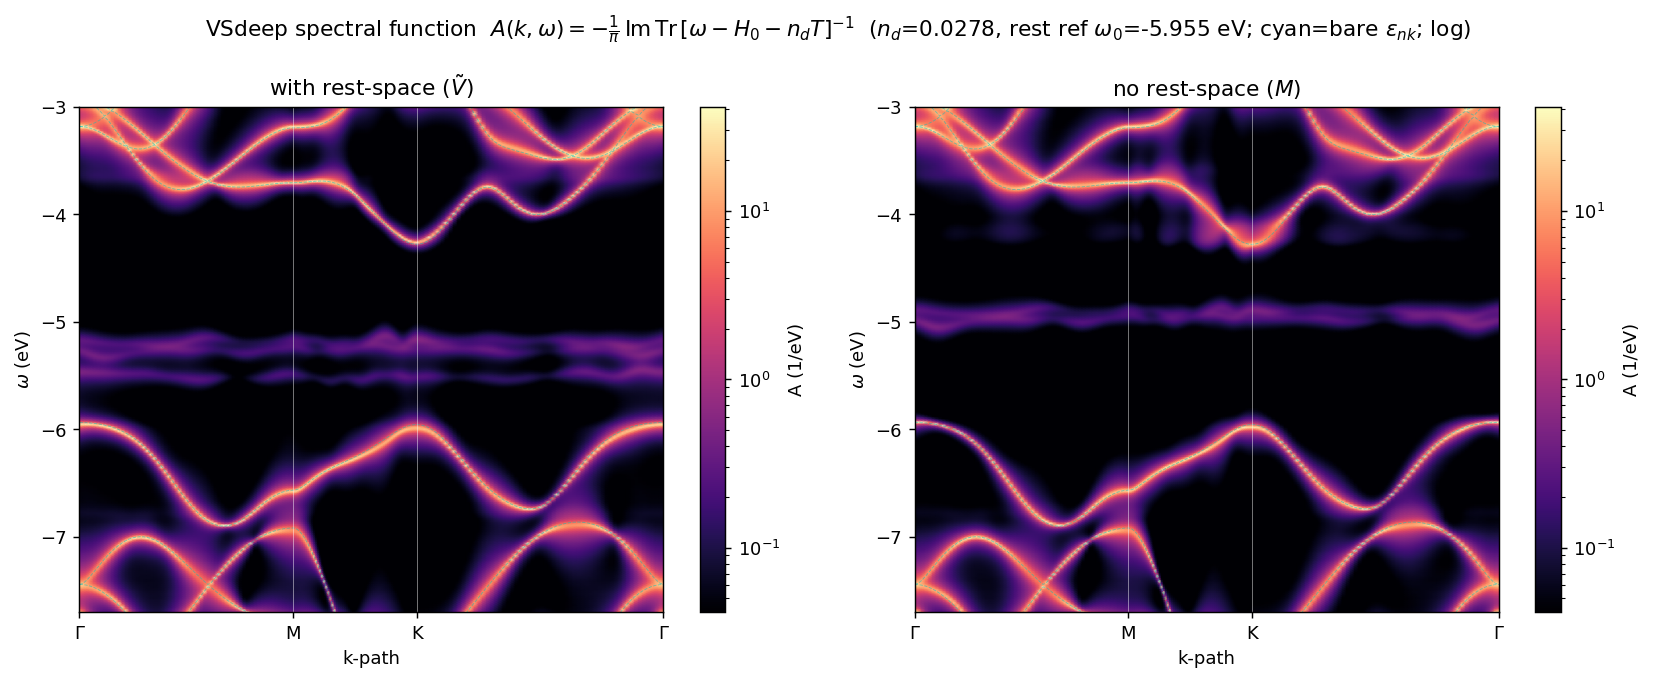
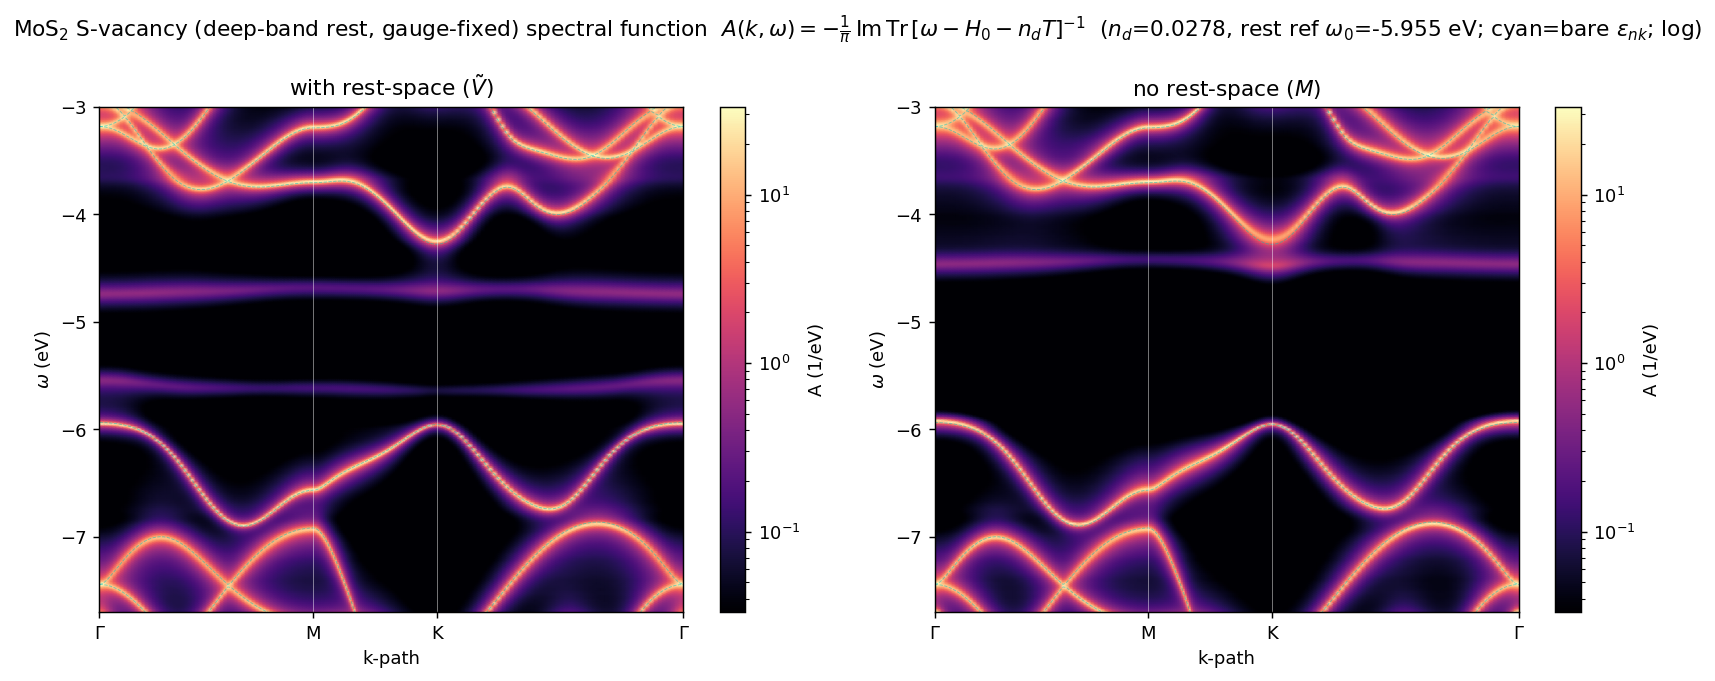
tmatrix §4.1: gauge-fix the deep-band rest (phase-sync Σ_deep into filukk gauge) → smooth spectral lines
The deep bands 1-6 live only in the bra-fixed edmat, whose per-(k,band) gauge
does not match filukk_90; the bf-built Ṽ_deep was white in k (on-site 9%), so the
RCUT=4 interpolation gave jagged in-gap lines. Recover the diagonal phase gauge D
from M_good=D†M_bf D (phase-sync, verified 1.5%), rotate Σ_deep into the filukk
gauge → on-site 9%→98%, a1/e unchanged (+0.33/+1.21). Replace the spectral figure
with the smooth gauge-fixed map; retract the jagged one (correction iii).

diff --git a/docs/pages/tmatrix.html b/docs/pages/tmatrix.html
@@ -44,12 +44,12 @@ A(\mathbf k,\omega)=-\frac{1}{\pi}\,\mathrm{Im}\,\mathrm{Tr}\,\big[\omega-H_0(\m
 <p>Diagonalizing the (bra-fixed) matrix element over band ranges makes it unambiguous:</p>
 <div class="table-wrap"><table><thead><tr><th>bands</th><th>deep 1–6</th><th>$a_1$</th><th>$e$</th></tr></thead><tbody><tr><td>1–66 (full)</td><td>in</td><td>$+0.238$</td><td>$+1.196$</td></tr><tr><td>7–66</td><td><strong>out</strong></td><td><strong>gone (below VBM)</strong></td><td>$+1.194$</td></tr><tr><td>7–17 (active only)</td><td>out</td><td>$+0.005$</td><td>$+1.484$</td></tr></tbody></table></div>
 <p>The active Wannier window is bands 7–17; the original downfolding took the rest as $Q=18$–70, <strong>excluding 1–6</strong>. Putting them back, $Q=\{1\text{–}6\}\cup\{18\text{–}66\}$, the downfolded static self-energy recovers $a_1=+0.238$ (self-consistent) — exactly the full diagonalization and DFT $\approx+0.24$ — while $e$ is unchanged at $+1.21$. (Feshbach downfolding is exact when $P\cup Q$ spans the full band set, so a <em>complete</em> rest must reproduce the full diagonalization; the deep bands push the occupied $a_1$ up into the gap, the high bands alone push it down — both are needed.)</p>
-<p>So $a_1$ is a genuine gap state ($+0.24$ eV self-consistent; $+0.33$ in the static downfold), and with the <strong>complete</strong> rest it appears in $A(\mathbf k,\omega)$ as a flat in-gap line like $e$:</p>
-<p><img src="../assets/tmat_spectral_deep.png" alt="V_S spectral function with the corrected rest (deep bands in Q)" style="max-width:100%;height:auto;display:block;margin:1.2rem auto;border:1px solid #d0d7de;border-radius:6px"> <em>$A(\mathbf k,\omega)$ recomputed with the corrected block (rest $Q=\{1\text{–}6\}\cup\{18\text{–}66\}$), with vs without rest-space. The host valence/conduction bands are properly resolved; in the gap the <strong>$e$ doublet</strong> sits at $+1.21$ eV and the <strong>$a_1$</strong> now appears as a flat line at $+0.33$ eV (static; self-consistent / DFT $+0.24$ — the $\sim0.1$ eV is the static-$\Sigma$ overshoot for a level $0.24$ eV from $\omega_0$). Both defect states are present, as in DFT — the deep-band fix recovers the missing $a_1$.</em></p>
+<p>So $a_1$ is a genuine gap state ($+0.24$ eV self-consistent; $+0.33$ in the static downfold). One <strong>gauge subtlety</strong> had to be cleared before it shows <em>cleanly</em> in $A(\mathbf k,\omega)$. The deep bands 1–6 exist only in the <strong>bra-fixed</strong> matrix element, whose per-$(\mathbf k,\text{band})$ phase gauge does <em>not</em> match the gauge-locked <code>filukk</code> (§6). Eigenvalues are gauge-invariant — so $a_1=+0.33$ from the diagonalization is correct — but the <strong>Wannier interpolation is gauge-sensitive</strong>: built directly from the bra-fixed block, $\tilde V_{\rm deep}^W$ fails to localize (on-site weight only $\sim$9 %, vs 99 % for the gauge-matched block), so the $R_{\rm cut}{=}4$ defect block is corrupt and the in-gap lines come out <strong>jagged</strong>. The fix needs no recompute — both active $M_{PP}$ blocks are on hand (gauge-matched from <code>block.py</code>, and bra-fixed), so the diagonal phase gauge $D$ ($M^{\rm good}=D^\dagger M^{\rm bf} D$) is recovered by phase-synchronisation (leading eigenvector of $M^{\rm good}\!\odot\!\overline{M^{\rm bf}}$; verified $\lVert D^\dagger M^{\rm bf} D - M^{\rm good}\rVert/\lVert M^{\rm good}\rVert = 1.5\%$) and applied to the rest self-energy, $\Sigma^{\rm good}_{\rm deep}=D^\dagger\Sigma^{\rm bf}_{\rm deep} D$. This restores locality (on-site $9\%\!\to\!98\%$) with $a_1/e$ unchanged. With the re-gauged, <strong>complete</strong> rest, $a_1$ appears in $A(\mathbf k,\omega)$ as a flat in-gap line like $e$:</p>
+<p><img src="../assets/tmat_spectral_deep.png" alt="V_S spectral function, gauge-fixed deep-band rest" style="max-width:100%;height:auto;display:block;margin:1.2rem auto;border:1px solid #d0d7de;border-radius:6px"> <em>$A(\mathbf k,\omega)$ with the <strong>gauge-fixed</strong> deep-band rest ($Q=\{1\text{–}6\}\cup\{18\text{–}66\}$, $\Sigma_{\rm deep}$ rotated into the <code>filukk</code> gauge), with vs without rest-space. Host bands are smooth dispersive ridges (adjacent-$\mathbf k$ $|\Delta\log_{10}A|\approx0.05$, vs the jagged pre-gauge-fix map); in the gap the <strong>$e$ doublet</strong> is a clear flat line at $+1.21$ eV (median $A\sim0.3$/eV) and the <strong>$a_1$</strong> a fainter flat line at $+0.33$ eV (median $A\sim0.15$/eV, $\sim$15× the gap-mid background) — fainter because it sits only $0.33$ eV above the VBM and is more hybridised than the deep $e$ resonance. Static $+0.33$; self-consistent / DFT $+0.24$. Both defect states are present, as in DFT.</em></p>
 <p>For contrast, the two figures below were computed with the <strong>truncated</strong> rest ($Q=18$–70, no deep bands) — the <em>symptom</em> of the bug, with $a_1$ pinned onto the valence-band edge ($+0.001$) and therefore invisible; they are <strong>not</strong> the corrected result.</p>
 <p><img src="../assets/tmat_dA_vs.png" alt="V_S defect-induced ΔA(k,ω) with the truncated rest: a1 not split off" style="max-width:100%;height:auto;display:block;margin:1.2rem auto;border:1px solid #d0d7de;border-radius:6px"> <em>(Truncated rest, no deep bands.) Defect-induced $\Delta A$: with $a_1$ mis-placed onto the band edge, the added weight (red) traces the dispersive valence band rather than forming a flat $a_1$ line. With the deep bands restored, $a_1$ moves to $+0.24$ (a clean gap level) and this pathology disappears.</em></p>
 <p><img src="../assets/tmat_dos_compare.png" alt="diagonalization DOS vs truncated-rest T-matrix DOS" style="max-width:100%;height:auto;display:block;margin:1.2rem auto;border:1px solid #d0d7de;border-radius:6px"> <em>(Truncated rest.) With the deep bands omitted, $a_1$ sits on the valence edge and gives no DOS peak (continuum $\Delta\rho\approx0.01$ near the VBM), while $e$ ($+1.21$) gives a clean peak. With $Q\ni1$–6 the $a_1$ returns as a $+0.24$-eV gap feature.</em></p>
-<p><strong>Corrections to earlier versions of this note.</strong> Two intermediate claims here were wrong and are retracted: (i) a large "$a_1$ DOS peak" from an earlier $\mathbf k$-path-sum (a valence van-Hove artifact), and (ii) the attribution of the missing $a_1$ to a "band-edge under-binding that needs DFT self-consistency." The true cause is the deep-band (1–6) truncation of the rest, and it is fixed <strong>inside</strong> the $T$-matrix by including those bands in $Q$ — no DFT self-consistency required. ($e$, the deep empty state, was always correct.)</p>
+<p><strong>Corrections to earlier versions of this note.</strong> Three intermediate claims/figures here were wrong and are retracted: (i) a large "$a_1$ DOS peak" from an earlier $\mathbf k$-path-sum (a valence van-Hove artifact); (ii) the attribution of the missing $a_1$ to a "band-edge under-binding that needs DFT self-consistency" — the true cause is the deep-band (1–6) truncation of the rest, fixed <strong>inside</strong> the $T$-matrix by including those bands in $Q$, no DFT self-consistency required; and (iii) a first deep-rest spectral map with <strong>jagged</strong> in-gap lines — an artifact of building the deep block from the bra-fixed matrix element, whose gauge does not match <code>filukk</code>; re-gauging $\Sigma_{\rm deep}$ (above) gives the smooth map shown. ($e$, the deep empty state, was correct throughout.)</p>
 <h3>4.2 Why the spectral function uses the resummed Dyson form, not $G_0+G_0TG_0$</h3>
 <p>The spectral function above uses the <strong>resummed</strong> Green's function $G=[\omega-H_0-n_dT]^{-1}$, not the single-defect, linear-in-$T$ form $G=G_0+G_0TG_0$. The two are the same to $\mathcal O(n_d)$ — expanding $[G_0^{-1}-n_dT]^{-1}=G_0+n_dG_0TG_0+\mathcal O(n_d^2)$ — but only the resummed form gives a physical ($A\geq0$) spectral function at finite concentration: at a host band $G_0\sim1/(\omega-\varepsilon)$, so the linear correction carries a double pole $1/(\omega-\varepsilon)^2$ whose dispersive imaginary part drives $A$ <strong>negative</strong>, whereas the resummation turns it into a finite Lorentzian (the band acquires width $\mathrm{Im}\,\Sigma=n_d\mathrm{Im}\,T$ instead of diverging).</p>
 <p>Computing both from the <em>same</em> band-space $T(\mathbf k,\omega)$ confirms this — and pins down <em>when</em> it matters:</p>

diff --git a/content/note_tmatrix.md b/content/note_tmatrix.md
@@ -65,10 +65,10 @@ Diagonalizing the (bra-fixed) matrix element over band ranges makes it unambiguo
 
 The active Wannier window is bands 7–17; the original downfolding took the rest as $Q=18$–70, **excluding 1–6**. Putting them back, $Q=\{1\text{–}6\}\cup\{18\text{–}66\}$, the downfolded static self-energy recovers $a_1=+0.238$ (self-consistent) — exactly the full diagonalization and DFT $\approx+0.24$ — while $e$ is unchanged at $+1.21$. (Feshbach downfolding is exact when $P\cup Q$ spans the full band set, so a *complete* rest must reproduce the full diagonalization; the deep bands push the occupied $a_1$ up into the gap, the high bands alone push it down — both are needed.)
 
-So $a_1$ is a genuine gap state ($+0.24$ eV self-consistent; $+0.33$ in the static downfold), and with the **complete** rest it appears in $A(\mathbf k,\omega)$ as a flat in-gap line like $e$:
+So $a_1$ is a genuine gap state ($+0.24$ eV self-consistent; $+0.33$ in the static downfold). One **gauge subtlety** had to be cleared before it shows *cleanly* in $A(\mathbf k,\omega)$. The deep bands 1–6 exist only in the **bra-fixed** matrix element, whose per-$(\mathbf k,\text{band})$ phase gauge does *not* match the gauge-locked `filukk` (§6). Eigenvalues are gauge-invariant — so $a_1=+0.33$ from the diagonalization is correct — but the **Wannier interpolation is gauge-sensitive**: built directly from the bra-fixed block, $\tilde V_{\rm deep}^W$ fails to localize (on-site weight only $\sim$9 %, vs 99 % for the gauge-matched block), so the $R_{\rm cut}{=}4$ defect block is corrupt and the in-gap lines come out **jagged**. The fix needs no recompute — both active $M_{PP}$ blocks are on hand (gauge-matched from `block.py`, and bra-fixed), so the diagonal phase gauge $D$ ($M^{\rm good}=D^\dagger M^{\rm bf} D$) is recovered by phase-synchronisation (leading eigenvector of $M^{\rm good}\!\odot\!\overline{M^{\rm bf}}$; verified $\lVert D^\dagger M^{\rm bf} D - M^{\rm good}\rVert/\lVert M^{\rm good}\rVert = 1.5\%$) and applied to the rest self-energy, $\Sigma^{\rm good}_{\rm deep}=D^\dagger\Sigma^{\rm bf}_{\rm deep} D$. This restores locality (on-site $9\%\!\to\!98\%$) with $a_1/e$ unchanged. With the re-gauged, **complete** rest, $a_1$ appears in $A(\mathbf k,\omega)$ as a flat in-gap line like $e$:
 
-![V_S spectral function with the corrected rest (deep bands in Q)](../assets/tmat_spectral_deep.png)
-*$A(\mathbf k,\omega)$ recomputed with the corrected block (rest $Q=\{1\text{–}6\}\cup\{18\text{–}66\}$), with vs without rest-space. The host valence/conduction bands are properly resolved; in the gap the **$e$ doublet** sits at $+1.21$ eV and the **$a_1$** now appears as a flat line at $+0.33$ eV (static; self-consistent / DFT $+0.24$ — the $\sim0.1$ eV is the static-$\Sigma$ overshoot for a level $0.24$ eV from $\omega_0$). Both defect states are present, as in DFT — the deep-band fix recovers the missing $a_1$.*
+![V_S spectral function, gauge-fixed deep-band rest](../assets/tmat_spectral_deep.png)
+*$A(\mathbf k,\omega)$ with the **gauge-fixed** deep-band rest ($Q=\{1\text{–}6\}\cup\{18\text{–}66\}$, $\Sigma_{\rm deep}$ rotated into the `filukk` gauge), with vs without rest-space. Host bands are smooth dispersive ridges (adjacent-$\mathbf k$ $|\Delta\log_{10}A|\approx0.05$, vs the jagged pre-gauge-fix map); in the gap the **$e$ doublet** is a clear flat line at $+1.21$ eV (median $A\sim0.3$/eV) and the **$a_1$** a fainter flat line at $+0.33$ eV (median $A\sim0.15$/eV, $\sim$15× the gap-mid background) — fainter because it sits only $0.33$ eV above the VBM and is more hybridised than the deep $e$ resonance. Static $+0.33$; self-consistent / DFT $+0.24$. Both defect states are present, as in DFT.*
 
 For contrast, the two figures below were computed with the **truncated** rest ($Q=18$–70, no deep bands) — the *symptom* of the bug, with $a_1$ pinned onto the valence-band edge ($+0.001$) and therefore invisible; they are **not** the corrected result.
 
@@ -78,7 +78,7 @@ For contrast, the two figures below were computed with the **truncated** rest ($
 ![diagonalization DOS vs truncated-rest T-matrix DOS](../assets/tmat_dos_compare.png)
 *(Truncated rest.) With the deep bands omitted, $a_1$ sits on the valence edge and gives no DOS peak (continuum $\Delta\rho\approx0.01$ near the VBM), while $e$ ($+1.21$) gives a clean peak. With $Q\ni1$–6 the $a_1$ returns as a $+0.24$-eV gap feature.*
 
-**Corrections to earlier versions of this note.** Two intermediate claims here were wrong and are retracted: (i) a large "$a_1$ DOS peak" from an earlier $\mathbf k$-path-sum (a valence van-Hove artifact), and (ii) the attribution of the missing $a_1$ to a "band-edge under-binding that needs DFT self-consistency." The true cause is the deep-band (1–6) truncation of the rest, and it is fixed **inside** the $T$-matrix by including those bands in $Q$ — no DFT self-consistency required. ($e$, the deep empty state, was always correct.)
+**Corrections to earlier versions of this note.** Three intermediate claims/figures here were wrong and are retracted: (i) a large "$a_1$ DOS peak" from an earlier $\mathbf k$-path-sum (a valence van-Hove artifact); (ii) the attribution of the missing $a_1$ to a "band-edge under-binding that needs DFT self-consistency" — the true cause is the deep-band (1–6) truncation of the rest, fixed **inside** the $T$-matrix by including those bands in $Q$, no DFT self-consistency required; and (iii) a first deep-rest spectral map with **jagged** in-gap lines — an artifact of building the deep block from the bra-fixed matrix element, whose gauge does not match `filukk`; re-gauging $\Sigma_{\rm deep}$ (above) gives the smooth map shown. ($e$, the deep empty state, was correct throughout.)
 
 ### 4.2 Why the spectral function uses the resummed Dyson form, not $G_0+G_0TG_0$
 